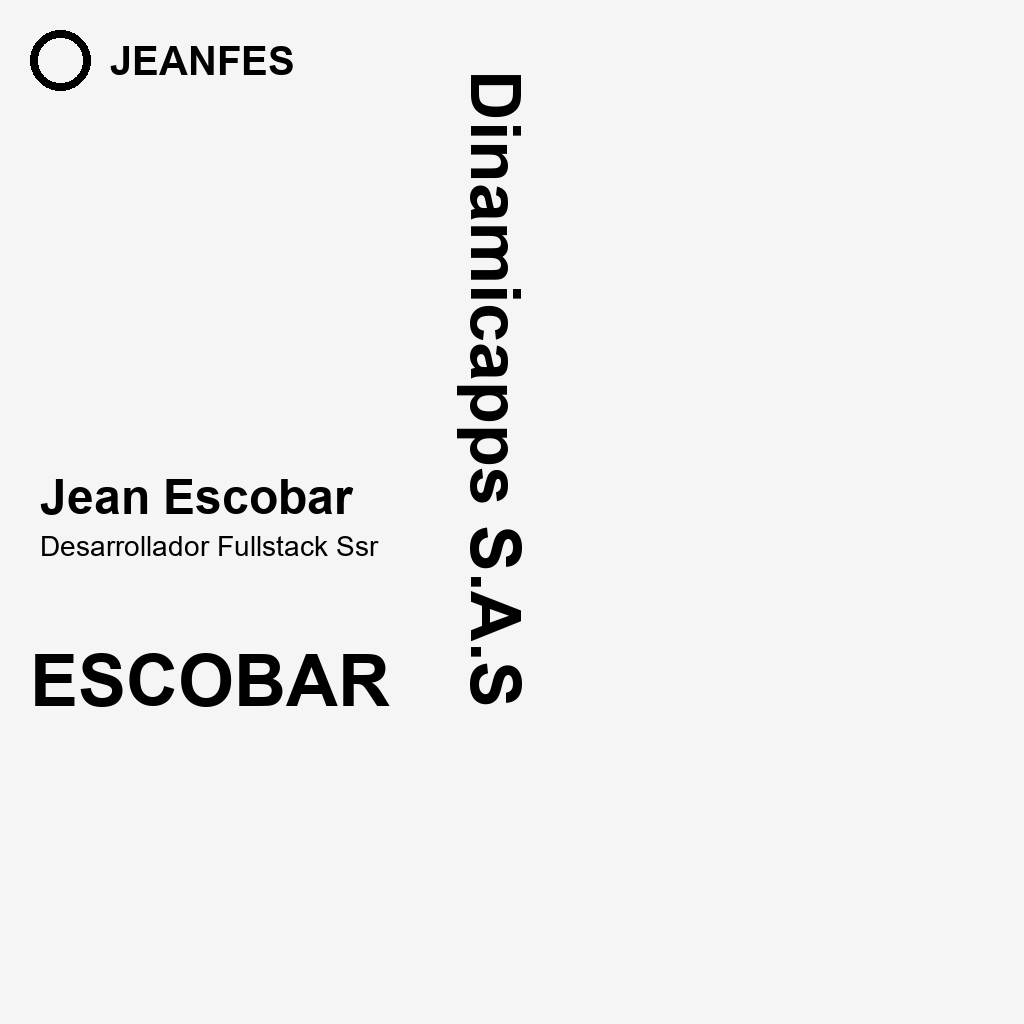
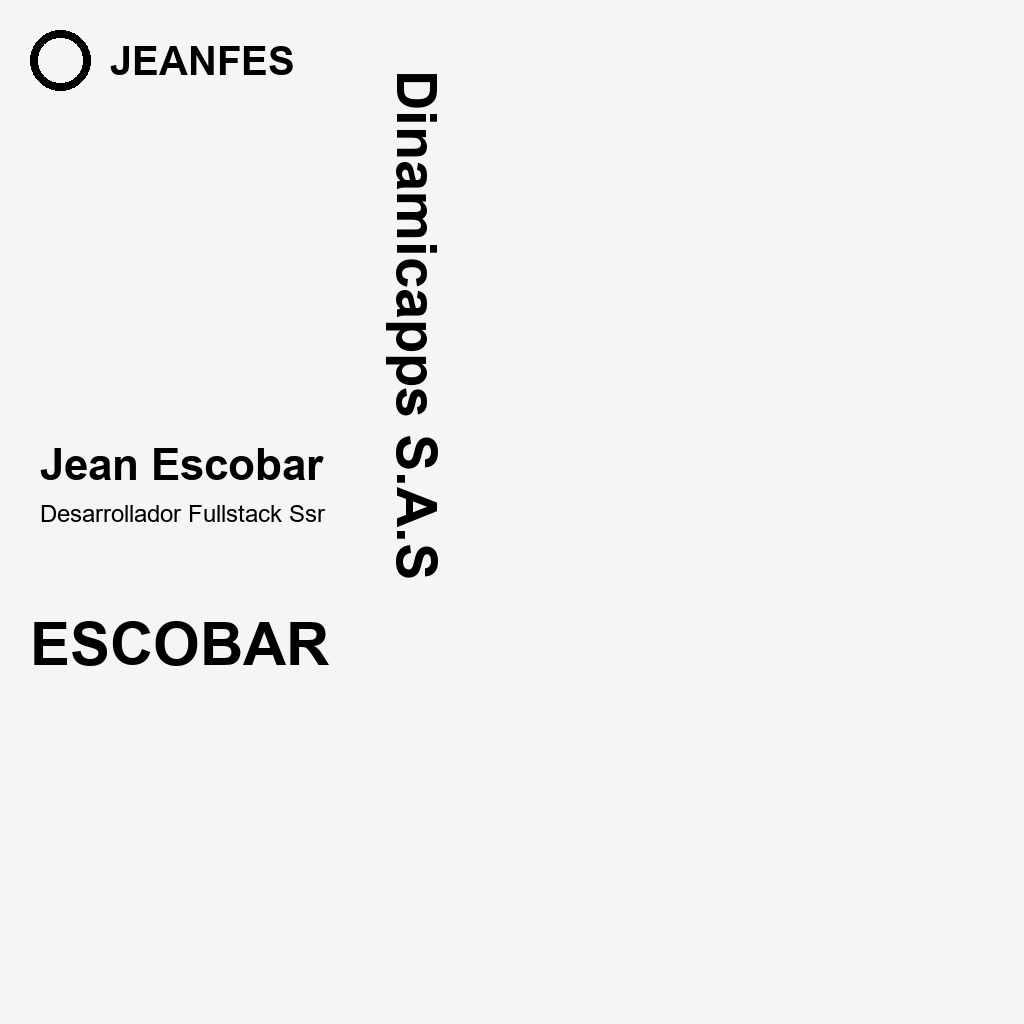
fix(clients): fit badge texture layout to the card's front-face UV region
The card front only maps the left half of the texture (x 0-510, y 0-775),
so the company name was clipped and overlapped "ESCOBAR". Lay everything
out inside that region.

Changed region(s): [[0.0312, 0.0625, 0.5312, 0.6875], [0.0312, 0.5938, 0.375, 0.6875]]

diff --git a/scripts/generate-badge-textures.py b/scripts/generate-badge-textures.py
@@ -21,10 +21,12 @@ def font(path, size):
     return ImageFont.truetype(path, size)
 
 
-# Only the left ~600px of the texture is visible on the card; the vertical
-# company name sits at NAME_X, so the left column must stay under LEFT_MAX_W.
-NAME_X = 490
-LEFT_MAX_W = 360
+# The card front only maps the left half of the texture (u 0..0.5, v 0..0.757),
+# i.e. x 0..510 and y 0..775. The vertical company name sits at NAME_X and the
+# left column must stay under LEFT_MAX_W so they never overlap.
+NAME_X = 410
+NAME_MAX_H = 520
+LEFT_MAX_W = 300
 
 
 def fit(d, text, path, size, max_w):
@@ -44,7 +46,7 @@ def draw_tag(name, bg, ink, company, role):
     d.text((110, 38), 'JEANFES', font=font(FONT_BOLD, 40), fill=ink)
 
     # Vertical company name along the center strip (text reads top -> bottom)
-    f = fit(d, company, FONT_BOLD, 96, 640)
+    f = fit(d, company, FONT_BOLD, 84, NAME_MAX_H)
     tw = int(d.textlength(company, font=f))
     layer = Image.new('RGBA', (tw + 20, f.size + 40), (0, 0, 0, 0))
     ImageDraw.Draw(layer).text((10, 10), company, font=f, fill=ink)
@@ -52,11 +54,11 @@ def draw_tag(name, bg, ink, company, role):
     im.paste(layer, (NAME_X - layer.width // 2, 60), layer)
 
     # Name / role block, left-middle
-    d.text((40, 470), 'Jean Escobar', font=fit(d, 'Jean Escobar', FONT_BOLD, 48, LEFT_MAX_W), fill=ink)
-    d.text((40, 530), role, font=fit(d, role, FONT_REG, 34, LEFT_MAX_W), fill=ink)
+    d.text((40, 440), 'Jean Escobar', font=fit(d, 'Jean Escobar', FONT_BOLD, 48, LEFT_MAX_W), fill=ink)
+    d.text((40, 500), role, font=fit(d, role, FONT_REG, 34, LEFT_MAX_W), fill=ink)
 
     # Big word bottom-left
-    d.text((30, 640), 'ESCOBAR', font=fit(d, 'ESCOBAR', FONT_BOLD, 88, LEFT_MAX_W), fill=ink)
+    d.text((30, 610), 'ESCOBAR', font=fit(d, 'ESCOBAR', FONT_BOLD, 88, LEFT_MAX_W), fill=ink)
 
     im.save(f'public/model/Tag{name}.png')
 
